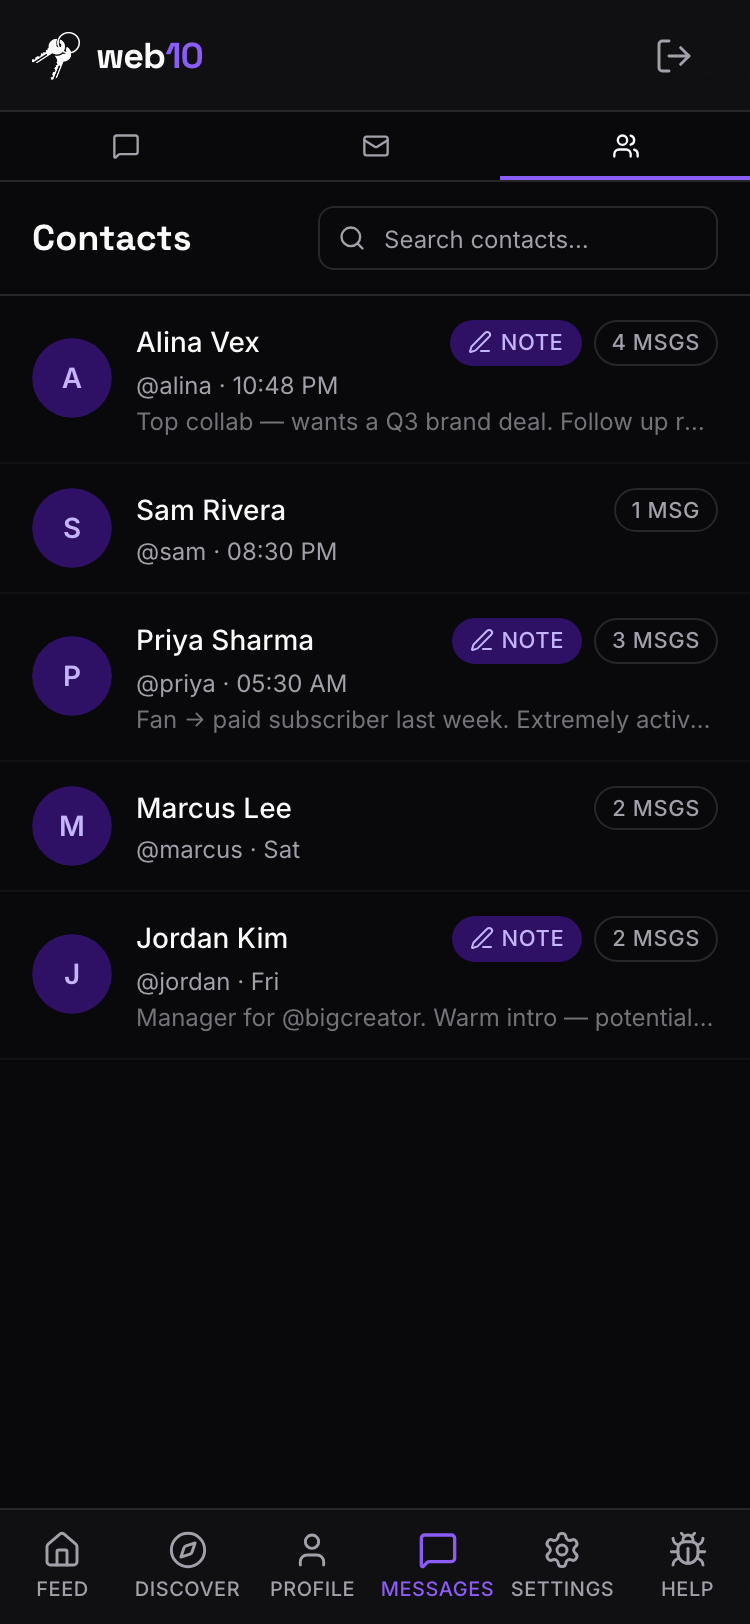
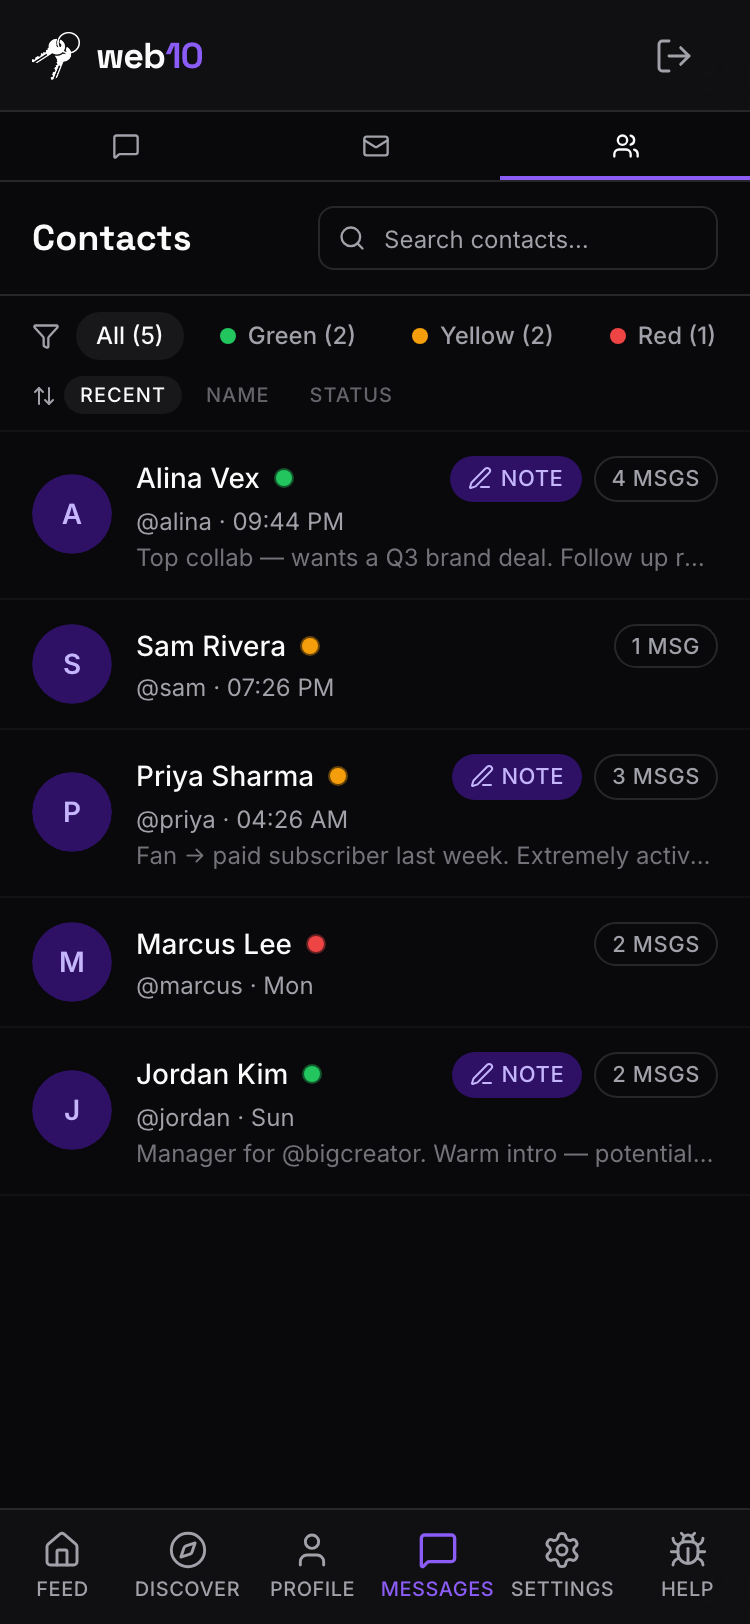
feat(web10-social): D-crm-upgrade bite a — STATUS COLORS (#361)
CrmView gains green/yellow/red status on each contact record, settable
from the contact detail card (clickable dot tri-state toggle) and
visible as a status dot next to each name in the contact row. Filter
chips (All, Green, Yellow, Red with counts) and sort buttons (Recent,
Name, Status) sit below the header. crm_status field on ContactRecord;
updateContactStatus in contacts.ts. 351 tests green, tsc clean.

diff --git a/marketing/web10-social/src/components/Chat/CrmView.tsx b/marketing/web10-social/src/components/Chat/CrmView.tsx
@@ -1,4 +1,4 @@
-import { useState, useEffect, useCallback } from 'react';
+import { useState, useEffect, useCallback, useMemo } from 'react';
 import { Avatar, AvatarFallback } from '@/components/ui/avatar';
 import { Badge } from '@/components/ui/badge';
 import { Skeleton } from '@/components/ui/skeleton';
@@ -6,9 +6,9 @@ import { Input } from '@/components/ui/input';
 import { Button } from '@/components/ui/button';
 import { Textarea } from '@/components/ui/textarea';
 import { getWapi } from '@/data/wapi';
-import { readContacts, listConversations, readDms, updateContactNote } from '@/data';
-import type { DmRecord, ContactRecord } from '@/data/types';
-import { Search, User, MessageSquare, Edit3, Save, X, ChevronLeft, Clock, Calendar } from 'lucide-react';
+import { readContacts, listConversations, readDms, updateContactNote, updateContactStatus } from '@/data';
+import type { DmRecord, ContactRecord, CrmStatus } from '@/data/types';
+import { Search, User, MessageSquare, Edit3, Save, X, ChevronLeft, Clock, Calendar, ArrowUpDown, Filter } from 'lucide-react';
 import { cn } from '@/lib/utils';
 
 function formatTime(dateStr: string): string {
@@ -45,6 +45,30 @@ interface CrmContactEntry {
   lastMessage: DmRecord | null;
   note: string;
   conversation: string;
+  crmStatus: CrmStatus | undefined;
+}
+
+const STATUS_COLORS: Record<CrmStatus, { bg: string; ring: string; label: string }> = {
+  green: { bg: 'bg-success', ring: 'ring-success/40', label: 'Green' },
+  yellow: { bg: 'bg-warning', ring: 'ring-warning/40', label: 'Yellow' },
+  red: { bg: 'bg-danger', ring: 'ring-danger/40', label: 'Red' },
+};
+
+function StatusDot({ status, size = 'sm' }: { status: CrmStatus | undefined; size?: 'sm' | 'md' }) {
+  if (!status) return null;
+  const c = STATUS_COLORS[status];
+  return (
+    <span
+      className={cn(
+        'shrink-0 rounded-full ring-1',
+        c.bg,
+        c.ring,
+        size === 'sm' ? 'h-2 w-2' : 'h-3 w-3',
+      )}
+      data-testid={`crm-status-${status}`}
+      title={c.label}
+    />
+  );
 }
 
 function ContactSkeleton() {
@@ -79,9 +103,12 @@ function ContactRow({
       </Avatar>
       <div className="flex-1 min-w-0">
         <div className="flex items-center justify-between gap-2">
-          <span className="text-sm font-medium text-foreground truncate">
-            {entry.displayName}
-          </span>
+          <div className="flex items-center gap-2 min-w-0">
+            <span className="text-sm font-medium text-foreground truncate">
+              {entry.displayName}
+            </span>
+            <StatusDot status={entry.crmStatus} />
+          </div>
           <div className="flex items-center gap-1.5 shrink-0">
             {entry.note && (
               <Badge variant="brand">
@@ -113,10 +140,12 @@ function ContactDetail({
   entry,
   onBack,
   onSaveNote,
+  onSaveStatus,
 }: {
   entry: CrmContactEntry;
   onBack: () => void;
   onSaveNote: (userKey: string, note: string) => void;
+  onSaveStatus: (userKey: string, status: CrmStatus | undefined) => void;
 }) {
   const [messages, setMessages] = useState<DmRecord[]>([]);
   const [editingNote, setEditingNote] = useState(false);
@@ -207,6 +236,26 @@ function ContactDetail({
                 </span>
               </div>
             )}
+            <div className="flex items-center justify-between">
+              <span className="text-xs text-muted-foreground">Status</span>
+              <div className="flex items-center gap-1.5">
+                {(Object.keys(STATUS_COLORS) as CrmStatus[]).map((s) => (
+                  <button
+                    key={s}
+                    onClick={() => onSaveStatus(entry.userKey, entry.crmStatus === s ? undefined : s)}
+                    className={cn(
+                      'rounded-full transition-all duration-150',
+                      entry.crmStatus === s
+                        ? `${STATUS_COLORS[s].bg} h-4 w-4 ring-2 ${STATUS_COLORS[s].ring}`
+                        : `${STATUS_COLORS[s].bg} h-2.5 w-2.5 opacity-30 hover:opacity-60`,
+                    )}
+                    aria-label={`Set status ${STATUS_COLORS[s].label}`}
+                    data-testid={`crm-detail-status-${s}`}
+                    title={STATUS_COLORS[s].label}
+                  />
+                ))}
+              </div>
+            </div>
           </div>
         </div>
 
@@ -341,6 +390,10 @@ export default function CrmView() {
   const [loading, setLoading] = useState(true);
   const [search, setSearch] = useState('');
   const [selectedContact, setSelectedContact] = useState<CrmContactEntry | null>(null);
+  const [statusFilter, setStatusFilter] = useState<CrmStatus | 'all'>('all');
+  const [sortBy, setSortBy] = useState<'lastMessage' | 'name' | 'status'>('lastMessage');
+
+  const statusOrder: Record<CrmStatus, number> = { red: 0, yellow: 1, green: 2 };
 
   const loadContacts = useCallback(async () => {
     setLoading(true);
@@ -384,16 +437,11 @@ export default function CrmView() {
           lastMessage: lastMsg,
           note: contact?.note || '',
           conversation: conv,
+          crmStatus: contact?.crm_status,
         } as CrmContactEntry;
       });
 
-      const loaded = await Promise.all(entryPromises);
-      loaded.sort((a, b) => {
-        const aTime = a.lastMessage ? new Date(a.lastMessage.sent_at).getTime() : 0;
-        const bTime = b.lastMessage ? new Date(b.lastMessage.sent_at).getTime() : 0;
-        return bTime - aTime;
-      });
-      setContacts(loaded);
+      setContacts(await Promise.all(entryPromises));
     } catch (e) {
       console.error('Failed to load CRM contacts:', e);
     }
@@ -423,13 +471,54 @@ export default function CrmView() {
     }
   }
 
-  const filtered = search.trim()
-    ? contacts.filter((c) =>
-        c.displayName.toLowerCase().includes(search.toLowerCase()) ||
-        c.username.toLowerCase().includes(search.toLowerCase()) ||
-        c.note.toLowerCase().includes(search.toLowerCase()),
-      )
-    : contacts;
+  async function handleSaveStatus(userKey: string, status: CrmStatus | undefined) {
+    try {
+      const contact = contacts.find((c) => c.userKey === userKey);
+      if (contact?.contact?._id) {
+        await updateContactStatus(contact.contact._id, status);
+      }
+      setContacts((prev) =>
+        prev.map((c) =>
+          c.userKey === userKey ? { ...c, crmStatus: status } : c,
+        ),
+      );
+      if (selectedContact?.userKey === userKey) {
+        setSelectedContact((prev) => prev ? { ...prev, crmStatus: status } : null);
+      }
+    } catch (e) {
+      console.error('Failed to save status:', e);
+    }
+  }
+
+  const filtered = useMemo(() => {
+    let result = contacts;
+    if (statusFilter !== 'all') {
+      result = result.filter((c) => c.crmStatus === statusFilter);
+    }
+    if (search.trim()) {
+      const q = search.toLowerCase();
+      result = result.filter((c) =>
+        c.displayName.toLowerCase().includes(q) ||
+        c.username.toLowerCase().includes(q) ||
+        c.note.toLowerCase().includes(q),
+      );
+    }
+    result = [...result].sort((a, b) => {
+      if (sortBy === 'name') {
+        return a.displayName.localeCompare(b.displayName);
+      }
+      if (sortBy === 'status') {
+        const aS = a.crmStatus !== undefined ? statusOrder[a.crmStatus] : 99;
+        const bS = b.crmStatus !== undefined ? statusOrder[b.crmStatus] : 99;
+        return aS - bS;
+      }
+      // lastMessage
+      const aTime = a.lastMessage ? new Date(a.lastMessage.sent_at).getTime() : 0;
+      const bTime = b.lastMessage ? new Date(b.lastMessage.sent_at).getTime() : 0;
+      return bTime - aTime;
+    });
+    return result;
+  }, [contacts, statusFilter, search, sortBy]);
 
   if (selectedContact) {
     return (
@@ -437,6 +526,7 @@ export default function CrmView() {
         entry={selectedContact}
         onBack={() => setSelectedContact(null)}
         onSaveNote={handleSaveNote}
+        onSaveStatus={handleSaveStatus}
       />
     );
   }
@@ -454,6 +544,62 @@ export default function CrmView() {
             data-testid="crm-search"
             className="w-full h-8 pl-8 pr-2 rounded-sm border border-input bg-transparent text-xs placeholder:text-muted-foreground focus:outline-none focus:ring-2 focus:ring-brand/50 transition-colors duration-150"
           />
+        </div>
+      </div>
+
+      {/* Filter chips + sort */}
+      <div className="px-4 py-2 border-b border-border/30 flex flex-col gap-2">
+        <div className="flex items-center gap-2 overflow-x-auto">
+          <Filter className="w-3.5 h-3.5 text-muted-foreground shrink-0" />
+          <button
+            onClick={() => setStatusFilter('all')}
+            className={cn(
+              'px-2.5 py-1 rounded-full text-xs font-medium transition-colors duration-150 shrink-0',
+              statusFilter === 'all'
+                ? 'bg-elevated text-foreground'
+                : 'text-muted-foreground hover:text-foreground hover:bg-elevated/50',
+            )}
+            data-testid="crm-filter-all"
+          >
+            All ({contacts.length})
+          </button>
+          {(Object.keys(STATUS_COLORS) as CrmStatus[]).map((s) => {
+            const count = contacts.filter((c) => c.crmStatus === s).length;
+            return (
+              <button
+                key={s}
+                onClick={() => setStatusFilter(s)}
+                className={cn(
+                  'flex items-center gap-1.5 px-2.5 py-1 rounded-full text-xs font-medium transition-colors duration-150 shrink-0',
+                  statusFilter === s
+                    ? `bg-elevated text-foreground`
+                    : 'text-muted-foreground hover:text-foreground hover:bg-elevated/50',
+                )}
+                data-testid={`crm-filter-${s}`}
+              >
+                <span className={cn('w-2 h-2 rounded-full', STATUS_COLORS[s].bg)} />
+                {STATUS_COLORS[s].label} ({count})
+              </button>
+            );
+          })}
+        </div>
+        <div className="flex items-center gap-1">
+          <ArrowUpDown className="w-3 h-3 text-muted-foreground shrink-0" />
+          {(['lastMessage', 'name', 'status'] as const).map((s) => (
+            <button
+              key={s}
+              onClick={() => setSortBy(s)}
+              className={cn(
+                'px-2 py-0.5 rounded text-[10px] font-medium uppercase tracking-wider transition-colors duration-150',
+                sortBy === s
+                  ? 'bg-elevated text-foreground'
+                  : 'text-muted-foreground/60 hover:text-muted-foreground hover:bg-elevated/30',
+              )}
+              data-testid={`crm-sort-${s}`}
+            >
+              {s === 'lastMessage' ? 'Recent' : s}
+            </button>
+          ))}
         </div>
       </div>
 

diff --git a/marketing/web10-social/screenshots/harness/mock-data.ts b/marketing/web10-social/screenshots/harness/mock-data.ts
@@ -84,6 +84,7 @@ const contacts: ContactRecord[] = PEERS.map((p, i) => ({
   note: p.note,
   added_at: p.added_at,
   spam_flagged: p.username === 'sam',
+  crm_status: i % 3 === 0 ? 'green' : i % 3 === 1 ? 'yellow' : 'red',
 }));
 
 const threads: Record<string, DmRecord[]> = {};
@@ -124,6 +125,11 @@ export async function updateContactNote(id: string, note: string): Promise<Conta
   if (c) c.note = note;
   return c ?? ({ _id: id, username: '', provider: 'web10', note } as ContactRecord);
 }
+export async function updateContactStatus(id: string, status: string | undefined): Promise<ContactRecord> {
+  const c = contacts.find((x) => x._id === id);
+  if (c) c.crm_status = status as any;
+  return c ?? ({ _id: id, username: '', provider: 'web10', crm_status: status } as ContactRecord);
+}
 export async function sendDm(): Promise<DmRecord> {
   return { _id: 'new', message: '', sent_at: new Date().toISOString(), sender_username: 'me', sender_provider: 'web10', recipient_username: '', recipient_provider: 'web10' };
 }
@@ -140,6 +146,14 @@ export async function spamFlagUser(username: string, provider: string): Promise<
 export async function unspamFlagUser(username: string, provider: string): Promise<void> {
   const c = contacts.find((x) => x.username === username && x.provider === provider);
   if (c) c.spam_flagged = false;
+}
+export async function toggleSpamFlag(id: string, flagged: boolean): Promise<ContactRecord> {
+  const c = contacts.find((x) => x._id === id);
+  if (c) c.spam_flagged = flagged;
+  return c ?? ({ _id: id, username: '', provider: 'web10', spam_flagged: flagged } as ContactRecord);
+}
+export async function readSpamFlaggedContacts(): Promise<ContactRecord[]> {
+  return contacts.filter((c) => c.spam_flagged);
 }
 export function classifyThread(
   lastMsg: DmRecord | null,

diff --git a/marketing/web10-social/src/__tests__/data/contacts.test.ts b/marketing/web10-social/src/__tests__/data/contacts.test.ts
@@ -145,4 +145,30 @@ describe('contacts data layer', () => {
       expect(result.length).toBe(1);
     });
   });
+
+  describe('updateContactStatus', () => {
+    it('sets crm_status on a contact', async () => {
+      const updated = { _id: 'c1', username: 'bob', provider: 'api.web10.app', crm_status: 'red' };
+      mock.update.mockResolvedValue(updated);
+      const result = await contacts.updateContactStatus('c1', 'red');
+      expect(mock.update).toHaveBeenCalledWith('contacts', { _id: 'c1' }, { $set: { crm_status: 'red' } });
+      expect(result.crm_status).toBe('red');
+    });
+
+    it('clears crm_status when set to undefined', async () => {
+      const updated = { _id: 'c1', username: 'bob', provider: 'api.web10.app', crm_status: undefined };
+      mock.update.mockResolvedValue(updated);
+      const result = await contacts.updateContactStatus('c1', undefined);
+      expect(mock.update).toHaveBeenCalledWith('contacts', { _id: 'c1' }, { $set: { crm_status: undefined } });
+      expect(result.crm_status).toBeUndefined();
+    });
+
+    it('supports all three status values', async () => {
+      for (const status of ['green', 'yellow', 'red'] as const) {
+        mock.update.mockResolvedValue({ _id: 'c1', crm_status: status });
+        const result = await contacts.updateContactStatus('c1', status);
+        expect(result.crm_status).toBe(status);
+      }
+    });
+  });
 });

diff --git a/marketing/web10-social/src/data/contacts.ts b/marketing/web10-social/src/data/contacts.ts
@@ -1,5 +1,5 @@
 import { getWapi } from './wapi';
-import type { ContactRecord } from './types';
+import type { ContactRecord, CrmStatus } from './types';
 
 // ── Contacts data layer ────────────────────────────────────────────────────
 // The `contacts` service: unilateral friend graph.
@@ -132,6 +132,13 @@ export async function readSpamFlaggedContacts(): Promise<ContactRecord[]> {
  */
 export async function readContactsForCrm(): Promise<ContactRecord[]> {
   return readContacts();
+}
+
+/**
+ * Update a contact's CRM status (green/yellow/red priority).
+ */
+export async function updateContactStatus(id: string, status: CrmStatus | undefined): Promise<ContactRecord> {
+  return updateContact(id, { crm_status: status });
 }
 
 /**

diff --git a/marketing/web10-social/src/data/types.ts b/marketing/web10-social/src/data/types.ts
@@ -90,6 +90,8 @@ export interface ProfileRecord {
 
 // ── contacts ────────────────────────────────────────────────────────────────
 
+export type CrmStatus = 'green' | 'yellow' | 'red';
+
 export interface ContactRecord {
   _id?: string;
   username: string;
@@ -99,6 +101,7 @@ export interface ContactRecord {
   added_at?: string;
   note?: string;
   spam_flagged?: boolean;
+  crm_status?: CrmStatus;
 }
 
 // ── follows ─────────────────────────────────────────────────────────────────

diff --git a/CHANGELOG.md b/CHANGELOG.md
@@ -1,4 +1,6 @@
 1.0.210 || 28.07.2026
+feat(web10-social): D-crm-upgrade bite a — STATUS COLORS. CrmView gains green/yellow/red status on each contact record, settable from the contact detail card (clickable dot tri-state toggle) and visible as a status dot next to each name in the contact row. Filter chips (All, Green, Yellow, Red with counts) and sort buttons (Recent, Name, Status — red first, then yellow, green, untagged last) sit below the header. `crm_status` field on ContactRecord; `updateContactStatus` in contacts.ts. Screenshot harness mock data updated with status seeds + `updateContactStatus`/`toggleSpamFlag`/`readSpamFlaggedContacts` stubs. 351 tests green, tsc clean; screenshotted desktop + 375px.
+
 feat(web10-social): D-profile-message-button — Message button on user profiles. UserProfileScreen gains a Message button (outline variant, icon + label, ≥44px) next to Follow that navigates to `/messages?to=<username>`. Never renders on your own profile. DmsScreen honors the `?to=` param: if an existing conversation matches the username, opens it; otherwise opens the ContactPicker in compose mode prefilled with the target username. ContactPicker accepts a `prefilledUsername` prop to auto-enter compose mode. DmsScreen + UserProfileScreen test wrappers updated to MemoryRouter for hooks compatibility. 348 tests green.
 1.0.209 || 27.07.2026
 fix(marketing-ui): D-trending-controls-alignment — the /trending controls stack padding/alignment (operator, 27.07, screenshot: presets crammed under the header border, centered off-axis). (1) The KnobRack container had `pb-4` but zero top padding, so the preset pills sat almost touching the header's border-b — now `pt-6 pb-4`. (2) The presets row + Advanced toggle were `justify-center` while the search bar above is left-aligned in the content column — the whole controls stack is now on the one content-column axis (`justify-start`). (3) The topic-chip rail's hard-clipped trailing chip now fades out via a right-edge mask gradient, so a partial chip reads as scrollable, not bricked. Swept at 375px — no edge clipping. 105 marketing-ui tests green, tsc + vite build clean; screenshotted desktop + 375px.
